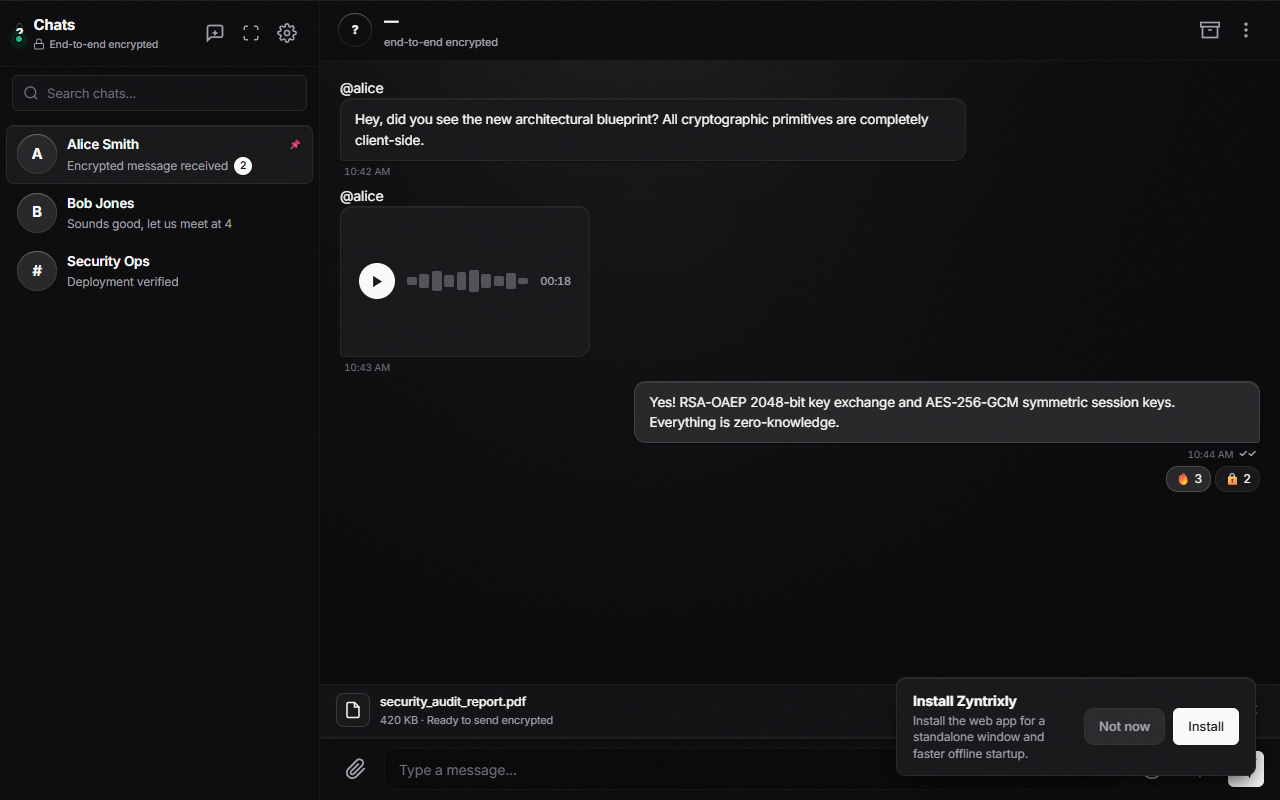
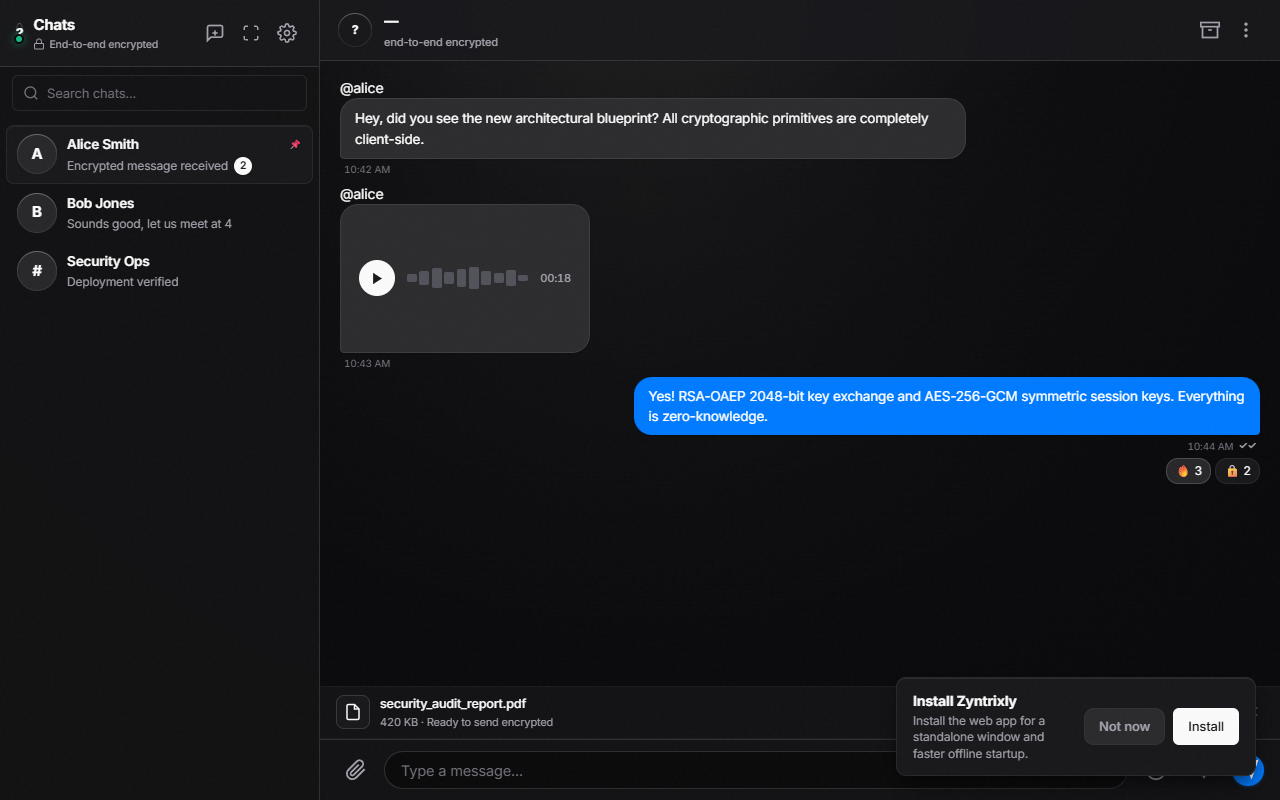
feat(ui): implement official Apple HIG design language with vibrancy materials, iMessage bubbles, and iOS grouped settings
Apply Apple Human Interface Guidelines across typography, materials, and components:
- SF Pro / SF Mono typography stack with optical tracking and tabular figures
- Translucent Vibrancy materials with backdrop blur (20px) and saturation boost (190%)
- 0.5px hairline dividers replicating Apple Retina physical pixel separators
- iMessage message bubble styling (iOS System Blue #007aff mine, #2c2c2e theirs)
- Apple Settings Inset Grouped layout with 48px inset separators and iOS green toggle (#30d158)
- Mobile iOS modal bottom sheet with drag handle and spring physics animation
- Expanded touch hit targets to 44x44pt across all primary action buttons

diff --git a/style.css b/style.css
@@ -96,8 +96,14 @@
   --duration-fast: 150ms;
   --duration-norm: 200ms;
 
-  --f1: 'Inter', -apple-system, BlinkMacSystemFont, "Segoe UI", Roboto, sans-serif;
-  --f2: 'JetBrains Mono', monospace;
+  --f1: -apple-system, BlinkMacSystemFont, "SF Pro Text", "SF Pro Display", "SF Pro", "Inter", -apple-system-subheadline, "Helvetica Neue", sans-serif;
+  --f2: "SF Mono", SFMono-Regular, ui-monospace, Menlo, Monaco, Consolas, monospace;
+  --apple-separator: rgba(84, 84, 88, 0.45);
+  --apple-tint-blue: #007aff;
+  --apple-tint-blue-hover: #0a84ff;
+  --apple-tint-green: #30d158;
+  --apple-tint-red: #ff453a;
+  --apple-spring: cubic-bezier(0.32, 0.72, 0, 1);
   --f3: 'Inter', sans-serif;
 
   --sb-w:  320px;
@@ -251,10 +257,10 @@ p, .bubble, .ci-preview, .about-desc, .settings-desc, .empty-card p {
 }
 
 /* ── 44PX TOUCH HIT AREAS ── */
-.sb-icon-btn, .mob-icon-btn, .compose-icon-btn, .modal-x, .chat-call-btn {
+.sb-icon-btn, .mob-icon-btn, .compose-icon-btn, .modal-x, .chat-call-btn, .send-btn {
   position: relative;
 }
-.sb-icon-btn::after, .mob-icon-btn::after, .compose-icon-btn::after, .modal-x::after, .chat-call-btn::after {
+.sb-icon-btn::after, .mob-icon-btn::after, .compose-icon-btn::after, .modal-x::after, .chat-call-btn::after, .send-btn::after {
   content: '';
   position: absolute;
   top: 50%;
@@ -725,10 +731,10 @@ p, .bubble, .ci-preview, .about-desc, .settings-desc, .empty-card p {
   width: var(--sb-w);
   display: flex;
   flex-direction: column;
-  background: var(--surface-base);
-  backdrop-filter: blur(var(--blur-lg)) saturate(180%);
-  -webkit-backdrop-filter: blur(var(--blur-lg)) saturate(180%);
-  border-right: 1px solid var(--b0);
+  background: rgba(18, 18, 20, 0.82);
+  backdrop-filter: blur(20px) saturate(190%);
+  -webkit-backdrop-filter: blur(20px) saturate(190%);
+  border-right: 0.5px solid var(--apple-separator);
   box-shadow: var(--rim-highlight);
   flex-shrink: 0;
   overflow: hidden;
@@ -741,7 +747,10 @@ p, .bubble, .ci-preview, .about-desc, .settings-desc, .empty-card p {
   align-items: center;
   justify-content: space-between;
   padding: 14px 16px;
-  border-bottom: 1px solid var(--b0);
+  border-bottom: 0.5px solid var(--apple-separator);
+  background: rgba(24, 24, 27, 0.82);
+  backdrop-filter: blur(20px) saturate(190%);
+  -webkit-backdrop-filter: blur(20px) saturate(190%);
   flex-shrink: 0;
   min-height: var(--hdr-h);
 }
@@ -1118,10 +1127,11 @@ p, .bubble, .ci-preview, .about-desc, .settings-desc, .empty-card p {
   position: relative;
   z-index: 5;
   min-height: var(--hdr-h);
-  background: var(--surface-base);
-  backdrop-filter: blur(var(--blur-md));
-  -webkit-backdrop-filter: blur(var(--blur-md));
-  box-shadow: var(--rim-highlight);
+  background: rgba(24, 24, 27, 0.85);
+  backdrop-filter: blur(20px) saturate(190%);
+  -webkit-backdrop-filter: blur(20px) saturate(190%);
+  border-bottom: 0.5px solid var(--apple-separator);
+  box-shadow: none;
 }
 .chat-hdr-av   { position: relative; flex-shrink: 0; }
 .chat-hdr-info { flex: 1; min-width: 0; display: flex; flex-direction: column; }
@@ -1243,19 +1253,21 @@ p, .bubble, .ci-preview, .about-desc, .settings-desc, .empty-card p {
 .bubble:active { transform: scale(0.98); }
 
 .msg-row.mine .bubble {
-  background-color: #27272a;
-  color: #fafafa;
-  border-radius: 12px 12px 3px 12px;
-  border: 1px solid #3f3f46;
-  box-shadow: 0 1px 2px rgba(0, 0, 0, 0.4), inset 0 1px 0 0 rgba(255, 255, 255, 0.08);
+  background-color: #007aff;
+  color: #ffffff;
+  border-radius: 18px 18px 4px 18px;
+  border: none;
+  box-shadow: 0 1px 2px rgba(0, 0, 0, 0.25);
+  padding: 9px 14px;
 }
 
 .msg-row.theirs .bubble {
-  background-color: #18181b;
-  color: #fafafa;
-  border-radius: 12px 12px 12px 3px;
-  border: 1px solid #27272a;
-  box-shadow: 0 1px 2px rgba(0, 0, 0, 0.3), inset 0 1px 0 0 rgba(255, 255, 255, 0.04);
+  background-color: #2c2c2e;
+  color: #ffffff;
+  border-radius: 18px 18px 18px 4px;
+  border: 0.5px solid rgba(255, 255, 255, 0.08);
+  box-shadow: 0 1px 2px rgba(0, 0, 0, 0.2);
+  padding: 9px 14px;
 }
 .bubble.deleted { font-style: italic; color: var(--fg3); opacity: 0.6; }
 
@@ -1332,10 +1344,11 @@ p, .bubble, .ci-preview, .about-desc, .settings-desc, .empty-card p {
   padding: 10px 16px;
   padding-bottom: calc(10px + var(--safe-b));
   border-top: 1px solid var(--b0);
-  background: var(--surface-base);
-  backdrop-filter: blur(var(--blur-md));
-  -webkit-backdrop-filter: blur(var(--blur-md));
-  box-shadow: var(--rim-highlight);
+  background: rgba(20, 20, 22, 0.85);
+  backdrop-filter: blur(20px) saturate(190%);
+  -webkit-backdrop-filter: blur(20px) saturate(190%);
+  border-top: 0.5px solid var(--apple-separator);
+  box-shadow: none;
   flex-shrink: 0;
 }
 .compose-icon-btn {
@@ -1357,12 +1370,12 @@ p, .bubble, .ci-preview, .about-desc, .settings-desc, .empty-card p {
 
 .compose-input {
   flex: 1;
-  height: 42px;
-  padding: 0 14px;
-  border-radius: 12px;
-  font-size: 14px;
-  background: #09090b;
-  border: 1px solid var(--b0);
+  height: 38px;
+  padding: 0 16px;
+  border-radius: 19px;
+  font-size: 14.5px;
+  background: rgba(0, 0, 0, 0.45);
+  border: 0.5px solid rgba(255, 255, 255, 0.14);
   color: var(--fg);
   transition: border-color 0.16s var(--ease), background-color 0.16s var(--ease), box-shadow 0.16s var(--ease);
   min-width: 0;
@@ -1377,24 +1390,24 @@ p, .bubble, .ci-preview, .about-desc, .settings-desc, .empty-card p {
 .compose-input::placeholder { color: var(--fg3); }
 
 .send-btn {
-  width: 36px;
-  height: 36px;
-  border-radius: 6px;
-  background-color: #fafafa;
-  color: #18181b;
+  width: 32px;
+  height: 32px;
+  border-radius: 50%;
+  background-color: #007aff;
+  color: #ffffff;
   flex-shrink: 0;
   display: flex;
   align-items: center;
   justify-content: center;
-  border: 1px solid rgba(255, 255, 255, 0.2);
-  box-shadow: 0 1px 2px rgba(0, 0, 0, 0.4), inset 0 1px 0 0 rgba(255, 255, 255, 0.4);
+  border: none;
+  box-shadow: 0 1px 3px rgba(0, 122, 255, 0.4);
   cursor: pointer;
-  transition: background-color 0.15s ease, transform 0.12s ease;
+  transition: background-color 0.14s var(--ease), transform 0.12s var(--ease);
 }
 .send-btn:hover {
-  transform: scale(1.04);
-  background-color: #f4f4f5;
-  box-shadow: inset 0 1px 0 rgba(255, 255, 255, 0.35), 0 2px 8px rgba(0, 0, 0, 0.5);
+  transform: scale(1.06);
+  background-color: #0a84ff;
+  box-shadow: 0 2px 8px rgba(0, 122, 255, 0.5);
 }
 .send-btn:active { transform: scale(0.92); }
 
@@ -1406,11 +1419,11 @@ p, .bubble, .ci-preview, .about-desc, .settings-desc, .empty-card p {
   padding: 0 14px;
   height: calc(54px + var(--safe-t));
   padding-top: var(--safe-t);
-  border-bottom: 1px solid var(--b0);
-  background: var(--surface-overlay);
-  backdrop-filter: blur(var(--blur-lg)) saturate(180%);
-  -webkit-backdrop-filter: blur(var(--blur-lg)) saturate(180%);
-  box-shadow: var(--rim-highlight);
+  background: rgba(28, 28, 30, 0.85);
+  backdrop-filter: blur(20px) saturate(190%);
+  -webkit-backdrop-filter: blur(20px) saturate(190%);
+  border-bottom: 0.5px solid var(--apple-separator);
+  box-shadow: none;
   flex-shrink: 0;
   position: relative;
   z-index: 50;
@@ -1625,19 +1638,19 @@ p, .bubble, .ci-preview, .about-desc, .settings-desc, .empty-card p {
 .settings-section {
   display: flex;
   flex-direction: column;
-  margin-bottom: 8px;
-  border-radius: 8px;
+  margin-bottom: 14px;
+  border-radius: 12px;
   overflow: hidden;
-  background: #18181b;
-  border: 1px solid #27272a;
+  background: #1c1c1e;
+  border: 0.5px solid var(--apple-separator);
 }
 .settings-sec-label {
-  font-size: 10.5px;
-  font-weight: 700;
-  color: var(--fg3);
+  font-size: 11.5px;
+  font-weight: 500;
+  color: rgba(235, 235, 245, 0.6);
   text-transform: uppercase;
-  letter-spacing: 0.08em;
-  padding: 12px 14px 6px;
+  letter-spacing: 0.05em;
+  padding: 12px 16px 6px;
 }
 .settings-profile {
   display: flex;
@@ -1672,13 +1685,13 @@ p, .bubble, .ci-preview, .about-desc, .settings-desc, .empty-card p {
   display: flex;
   align-items: center;
   gap: 12px;
-  padding: 13px 14px;
+  padding: 13px 16px;
   cursor: pointer;
-  transition: background 0.13s;
-  border-top: 1px solid var(--b0);
+  transition: background-color 0.12s var(--ease);
+  position: relative;
+  border: none;
 }
-.settings-item:hover { background: var(--surface-hover); }
-.settings-item:first-child { border-top: none; }
+.settings-item:hover { background: #2c2c2e; }
 .si-info { flex: 1; min-width: 0; display: flex; flex-direction: column; gap: 1px; font-size: 14px; }
 .si-sub  { font-size: 11px; color: var(--fg3); }
 
@@ -1687,22 +1700,30 @@ p, .bubble, .ci-preview, .about-desc, .settings-desc, .empty-card p {
   align-items: center;
   gap: 12px;
   width: 100%;
-  padding: 12px 14px;
+  min-height: 44px;
+  padding: 11px 16px;
   background: transparent;
   border: none;
-  border-top: 1px solid #27272a;
-  color: #fafafa;
-  font-size: 13.5px;
-  font-weight: 500;
+  color: #ffffff;
+  font-size: 14.5px;
+  font-weight: 450;
   cursor: pointer;
-  transition: background 0.15s ease;
+  transition: background-color 0.12s var(--ease);
   text-align: left;
+  position: relative;
 }
-.settings-row-btn:first-child {
-  border-top: none;
+.settings-row-btn + .settings-row-btn::before,
+.settings-item + .settings-item::before {
+  content: '';
+  position: absolute;
+  top: 0;
+  left: 48px;
+  right: 0;
+  height: 0.5px;
+  background: var(--apple-separator);
 }
 .settings-row-btn:hover:not(:disabled) {
-  background: #27272a;
+  background: #2c2c2e;
 }
 .settings-row-btn:disabled {
   opacity: 0.5;
@@ -1710,34 +1731,35 @@ p, .bubble, .ci-preview, .about-desc, .settings-desc, .empty-card p {
 }
 
 /* Custom Sliders & Toggles */
-.toggle {
-  width: 38px;
-  height: 22px;
-  border-radius: 11px;
-  background: rgba(255, 255, 255, 0.1);
-  border: 1px solid var(--b1);
+.toggle, .toggle-on {
+  width: 51px;
+  height: 31px;
+  border-radius: 15.5px;
+  background: rgba(120, 120, 128, 0.32);
   position: relative;
-  transition: background-color 0.2s var(--ease), border-color 0.2s var(--ease);
+  transition: background-color 0.25s var(--apple-spring);
   flex-shrink: 0;
+  cursor: pointer;
 }
-.toggle-on {
-  background: #fafafa;
+.toggle-on,
+.toggle.on {
+  background: #30d158;
 }
-.toggle-on .toggle-knob {
-  background: #18181b;
-}
-.toggle-knob, .toggle-on .toggle-knob {
+.toggle-knob, .toggle-on .toggle-knob, .toggle.on .toggle-knob {
   position: absolute;
   top: 2px;
   left: 2px;
-  width: 16px;
-  height: 16px;
+  width: 27px;
+  height: 27px;
   border-radius: 50%;
-  background: #fff;
-  transition: transform 0.2s var(--spring), background-color 0.2s var(--spring);
-  box-shadow: 0 1px 3px rgba(0, 0, 0, 0.3);
+  background: #ffffff;
+  transition: transform 0.25s var(--apple-spring);
+  box-shadow: 0 3px 8px rgba(0, 0, 0, 0.3), 0 1px 1px rgba(0, 0, 0, 0.15);
 }
-.toggle-on .toggle-knob { transform: translateX(16px); }
+.toggle-on .toggle-knob,
+.toggle.on .toggle-knob {
+  transform: translateX(20px);
+}
 
 /* Font Options */
 .font-options { display: flex; gap: 8px; padding: 8px 14px; }
@@ -2312,8 +2334,40 @@ p, .bubble, .ci-preview, .about-desc, .settings-desc, .empty-card p {
   .grp-panel { width: 100%; z-index: 500; }
   .toast     { max-width: calc(100vw - 24px); white-space: normal; text-align: center; }
   
-  .modal-bg  { padding: 12px; }
-  .modal     { max-width: 100%; border-radius: 20px 20px 16px 16px; }
+  .modal-bg {
+    align-items: flex-end;
+    padding: 0;
+    background: rgba(0, 0, 0, 0.55);
+    backdrop-filter: blur(16px) saturate(190%);
+    -webkit-backdrop-filter: blur(16px) saturate(190%);
+  }
+  .modal {
+    width: 100%;
+    max-width: 100%;
+    border-radius: 20px 20px 0 0;
+    border: none;
+    border-top: 0.5px solid rgba(255, 255, 255, 0.16);
+    background: #1c1c1e;
+    max-height: 92dvh;
+    padding: 10px 18px calc(16px + var(--safe-b)) 18px;
+    animation: apple-sheet-up 0.32s var(--apple-spring);
+    position: relative;
+  }
+  .modal::before {
+    content: '';
+    display: block;
+    position: relative;
+    inset: auto;
+    width: 36px;
+    height: 5px;
+    border-radius: 2.5px;
+    background: rgba(255, 255, 255, 0.28);
+    margin: 2px auto 14px auto;
+  }
+  @keyframes apple-sheet-up {
+    from { transform: translateY(100%); }
+    to { transform: translateY(0); }
+  }
   .settings-panel { max-height: 90dvh; }
   .install-banner { left: 10px; right: 10px; bottom: 10px; width: auto; transform: none; padding: 12px; border-radius: 14px; }
   .install-actions { flex-direction: column; }
@@ -2422,6 +2476,20 @@ p, .bubble, .ci-preview, .about-desc, .settings-desc, .empty-card p {
   color: #a1a1aa;
   font-weight: 500;
   flex-shrink: 0;
+}
+/* In .msg-row.mine bubbles, override audio note colors for high contrast against Apple Blue */
+.msg-row.mine .audio-time {
+  color: rgba(255, 255, 255, 0.85);
+}
+.msg-row.mine .audio-bar {
+  background: rgba(255, 255, 255, 0.35);
+}
+.msg-row.mine .audio-bar.played {
+  background: #ffffff;
+}
+.msg-row.mine .audio-play-btn {
+  background: #ffffff;
+  color: #007aff;
 }
 
 /* ── AUDIO RECORDING COMPOSER HUD ── */
